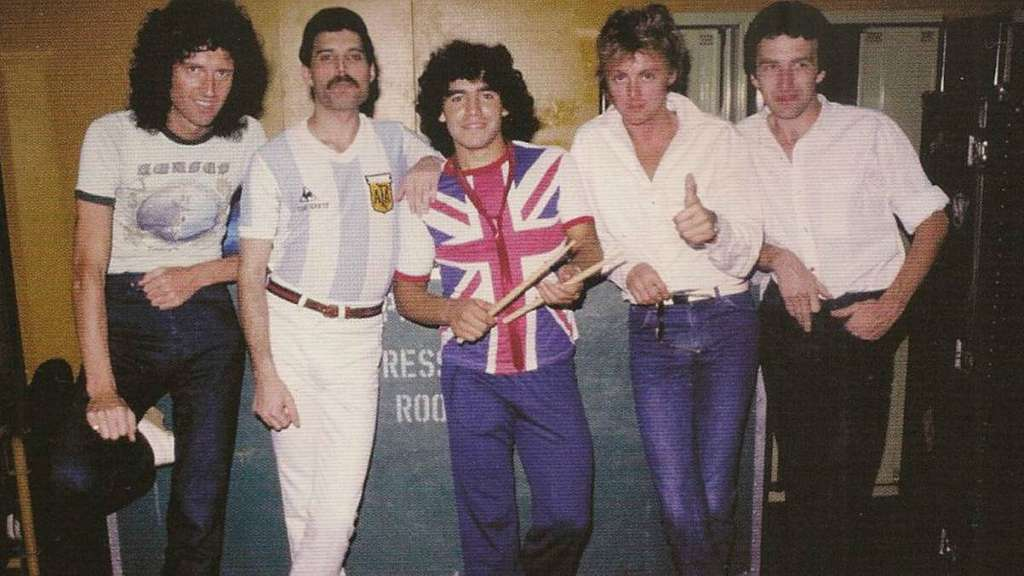
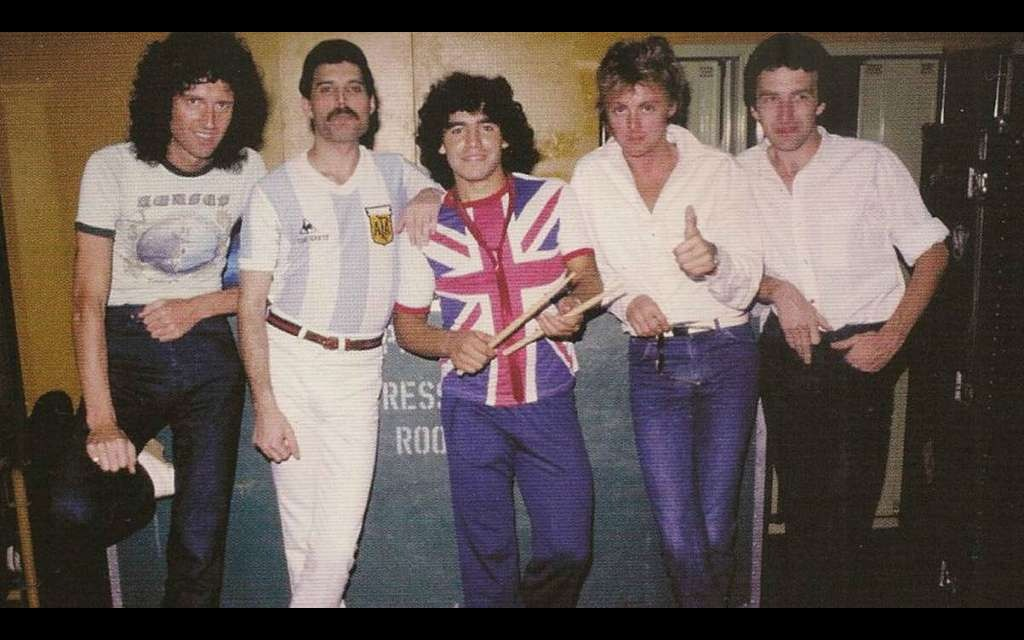
Apply PSI recomendations

diff --git a/src/presentation.html b/src/presentation.html
@@ -25,7 +25,7 @@
                             alt="Grupo de Rock Queen en 1977" width="1024" height="677">
                     </div>
                     <div class="swiper-slide"><img src="assets/images/slide_2.jpg?as=avif"
-                            alt="Queen junto al futbolísta Maradona" loading="lazy" width="1024" height="576">
+                            alt="Queen junto al futbolísta Maradona" loading="lazy" width="1024" height="640">
                     </div>
                     <div class="swiper-slide"><img src="assets/images/slide_3.jpg?as=avif"
                             alt="Portal del álbum Hot Space" loading="lazy" width="1024" height="640">
